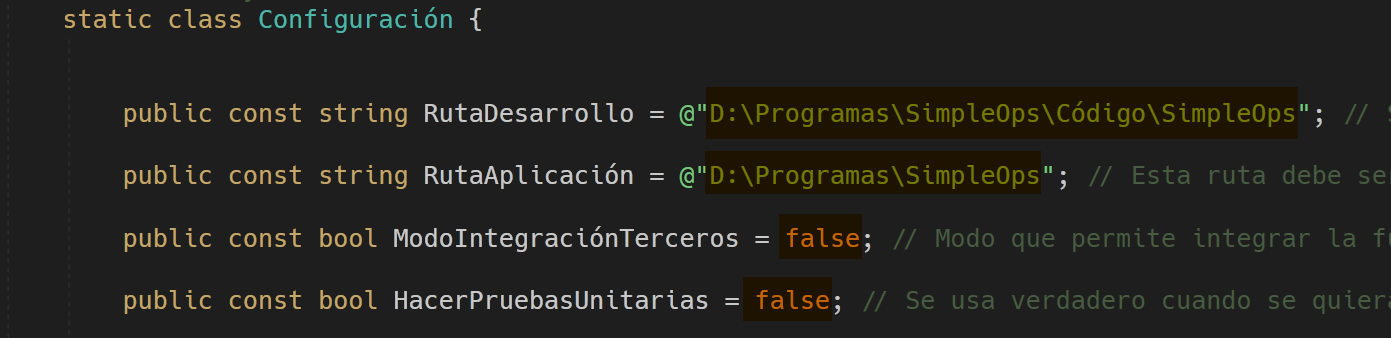
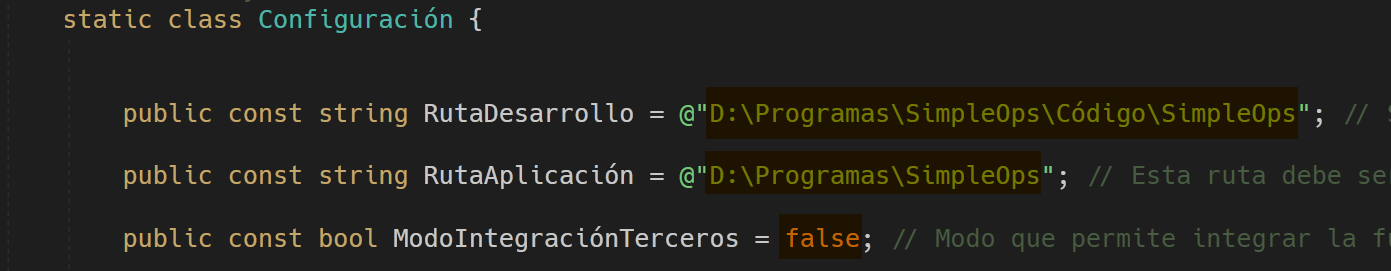
29ENE21

Changed region(s): [[0.0618, 0.2362, 1.0, 0.9742], [0.0309, 0.0295, 0.371, 0.1181]]

diff --git a/SimpleOps/Guías/Instalación y Habilitación Facturación Electrónica.html b/SimpleOps/Guías/Instalación y Habilitación Facturación Electrónica.html
@@ -264,9 +264,6 @@
                 como tu ERP y facturador electrónico establécelo en <i>false</i>. <b>Nota:</b> A junio de 2021, <b>SimpleOps</b> aún no tiene interfaz
                 gráfica y no puede ser usado como ERP, entonces la única opción para facturar electrónicamente es usando un programa tercero.
             </li>
-            <li>
-                <b>HacerPruebasUnitarias:</b> Cámbialo por <i>false</i>.
-            </li>
         </ul>
 
     </p>
@@ -702,7 +699,6 @@
         "Observaci\u00F3n": "Observaci\u00F3n sobre la venta.",<br />
         "MostrarInformaci\u00F3nAdicional": false,<br />
         "FechaHora": "2021-01-26T00:00:00.0000000Z",<br />
-        "ConsecutivoDianAnual": null,<br />
         "ClienteNombre": "Empresa Ensayo",<br />
         "ClienteTel\u00E9fono": "2202020",<br />
         "ClienteMunicipioNombre": "Bogot\u00E1",<br />
@@ -739,9 +735,6 @@
             </li>
             <li>
                 <b>N\u00FAmero:</b> Número consecutivo de la factura o nota crédito. Este número lo debe controlar y aumentar el programa tercero.
-            </li>
-            <li>
-                <b>ConsecutivoDianAnual:</b> Se puede dejar en null, normalmente se autocalcula internamente.
             </li>
             <li>
                 <b>ClienteMunicipioNombre y ClienteMunicipioDepartamento:</b> Deben coincidir con los de

diff --git a/SimpleOps/Interfaz/Ventanas/Principal.xaml.cs b/SimpleOps/Interfaz/Ventanas/Principal.xaml.cs
@@ -65,9 +65,6 @@ namespace SimpleOps.Interfaz {
             if (HabilitarRastreoDeDatosSensibles) 
                 LblAlerta.Content = $"Está habilitado el rastreo de datos sensibles. Esta función se debe desactivar en producción.{NuevaLínea}";
 
-            if (HacerPruebasUnitarias) 
-                LblAlerta.Content += $"Se realizarán las pruebas unitarias. Por rendimiento esta función se debe desactivar en producción.{NuevaLínea}";
-
             if (ModoIntegraciónTerceros) {
 
                 Visibility = Visibility.Visible;
@@ -104,9 +101,9 @@ namespace SimpleOps.Interfaz {
             // LeerBaseDatosCompleta();
 
             #pragma warning disable CS0162 // Se detectó código inaccesible. Se omite la advertencia porque HabilitarPruebasUnitarias puede ser modificado por el usuario del código en Configuración.cs.
-            if (HacerPruebasUnitarias) {
+            if (true) { // Poner en verdadero para realizar pruebas.
 
-                DocumentosElectrónicos(); // Prueba para ensayar todos los procedimientos relacionados con la facturación electrónica. Las pruebas para generar facturas electrónicas se realizan con un botón.
+                DocumentosElectrónicos(); // Prueba para ensayar todos los procedimientos relacionados con la facturación electrónica. No genera facturas electrónicas, las pruebas para generar facturas electrónicas se realizan con un botón.
                 // IntegraciónAplicacionesTerceros(); // Esta prueba se usa cuando se quiere simular el comportamiento de un programa tercero que genera archivos de comunicación .json con SimpleOps para el modo de integración de facturación electrónica. Si ya se dispone de un programa tercero generando correctamente los archivos, no es necesario activar esta línea.
                 GeneraciónCatálogo(); // Prueba para ensayar el procedimiento de generación automática de catálogos con precios.
 

diff --git a/SimpleOps/Estáticas/Configuración.cs b/SimpleOps/Estáticas/Configuración.cs
@@ -43,8 +43,6 @@ namespace SimpleOps {
 
         public const bool ModoIntegraciónTerceros = false; // Modo que permite integrar la funcionalidad de facturación electrónica y la generación de catálogos con programas terceros.
 
-        public const bool HacerPruebasUnitarias = false; // Se usa verdadero cuando se quieran realizar las pruebas al iniciar la aplicación.
-
         public const bool UsarSQLite = true; // Si es falso se usa MS SQL.
 
         public const bool GuardarFechaReducidaSQLite = true; // Si es verdadero la base de datos se construirá con algunas columnas (FechaHoraDeCreación y otras que no requieren exactitud a la hora y minuto) con formato yyMMdd y otras columnas con formato yyMMddhhmmssf. Esto ahorra alrededor de 15% de espacio comparado con el formato por defecto. En los ensayos realizados con los datos iniciales se obtuvo el mismo tiempo de escritura de toda la base de datos de 5:30 min así que se espera que el rendimiento sea el mismo y el tamaño pasó de 23 752 KB a 20 268 KB. Ver https://stackoverflow.com/questions/49261542/entityframework-core-format-datetime-in-sqlite-database/59981186#59981186. Para cambiar este comportamiento se debe borrar la base de datos, reiniciar las migraciones y recrearla.

diff --git a/SimpleOps/Integración/Integrador.cs b/SimpleOps/Integración/Integrador.cs
@@ -131,7 +131,7 @@ namespace SimpleOps.Integración {
                     var mapeador = new Mapper(ConfiguraciónMapeadorVentaIntegraciónInverso);
                     var venta = mapeador.Map<Venta>(datosVenta);
                     venta.Líneas.ForEach(lv => lv.Venta = venta); // Necesario porque después de ser leídas por el Automapper no quedan automáticamente enlazadas.
-                    if (venta.ConsecutivoDianAnual == null) venta.ConsecutivoDianAnual = venta.Número - Empresa.PrimerNúmeroFacturaAutorizada + 1;
+                    venta.ConsecutivoDianAnual = venta.Número - Empresa.PrimerNúmeroFacturaAutorizada + 1;
                     ValidarCliente(venta.Cliente);
                     ProcesarDocumentoCliente(venta, ruta, "factura");
 

diff --git a/SimpleOps/Integración/DatosVenta.cs b/SimpleOps/Integración/DatosVenta.cs
@@ -22,9 +22,7 @@ namespace SimpleOps.Integración {
 
         public int? VentaNúmero { get; set; } // Puede ser nulo para las facturas proforma y para ventas.
 
-        #pragma warning disable CA2227 // Las propiedades de colección deben ser de solo lectura. Se acepta porque es necesario asignarla en el método CopiarA().
         public List<DatosLíneaProducto> Líneas { get; set; } = null!; // Nunca es nulo (podría ser lista vacía), solo es para que no saque advertencia.
-        #pragma warning restore CA2227
 
         #endregion Propiedades Venta>
 

diff --git a/SimpleOps/Modelo/Entidades/Cotización.cs b/SimpleOps/Modelo/Entidades/Cotización.cs
@@ -47,7 +47,7 @@ namespace SimpleOps.Modelo {
 
         public DatosCotización ObtenerDatos(OpcionesDocumento opcionesDocumento) {
 
-            var mapeador = new Mapper(ConfiguraciónMapeadorVenta);
+            var mapeador = new Mapper(ConfiguraciónMapeadorCotización);
             var datos = mapeador.Map<DatosCotización>(this);
             datos.NombreDocumento = "Cotización";
             CompletarDatosCotización(opcionesDocumento, datos, Líneas);

diff --git a/SimpleOps/Integración/DatosDocumento.cs b/SimpleOps/Integración/DatosDocumento.cs
@@ -24,8 +24,6 @@ namespace SimpleOps.Integración {
 
         public DateTime? FechaHora { get; set; } // Puede ser nulo para documentos que no la requieren como fichas técnicas.
 
-        public int? ConsecutivoDianAnual { get; set; }
-
         #endregion Propiedades Documento
 
 
